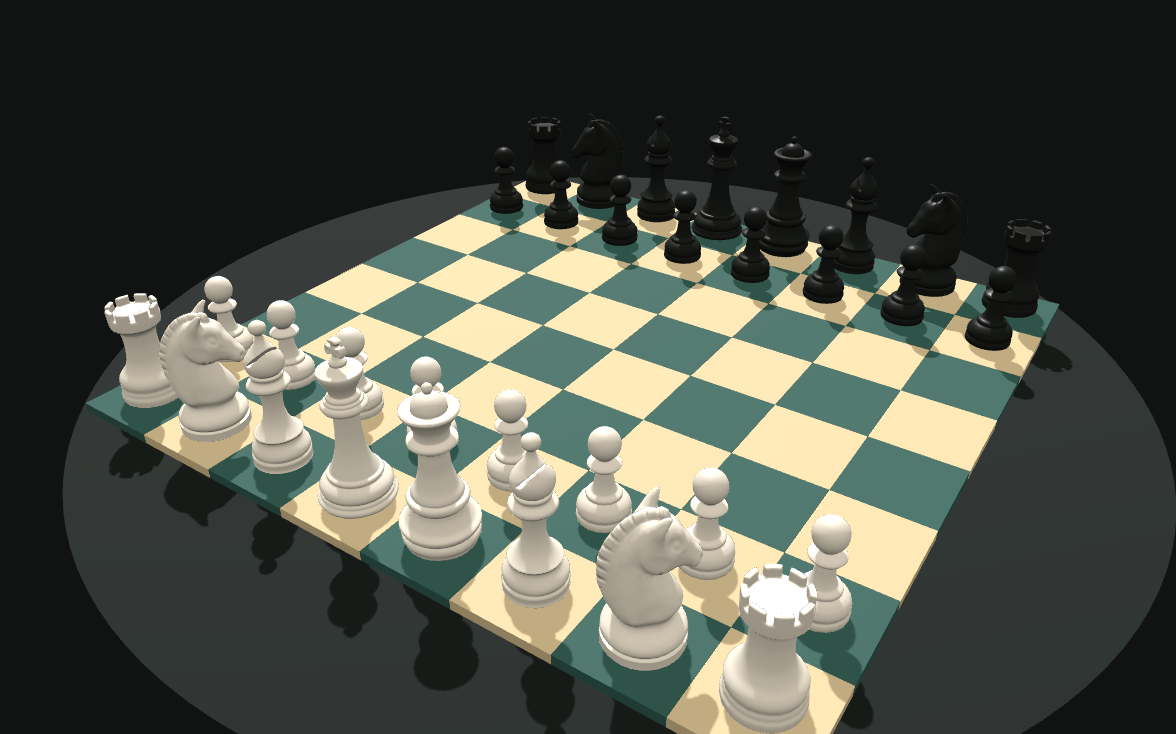
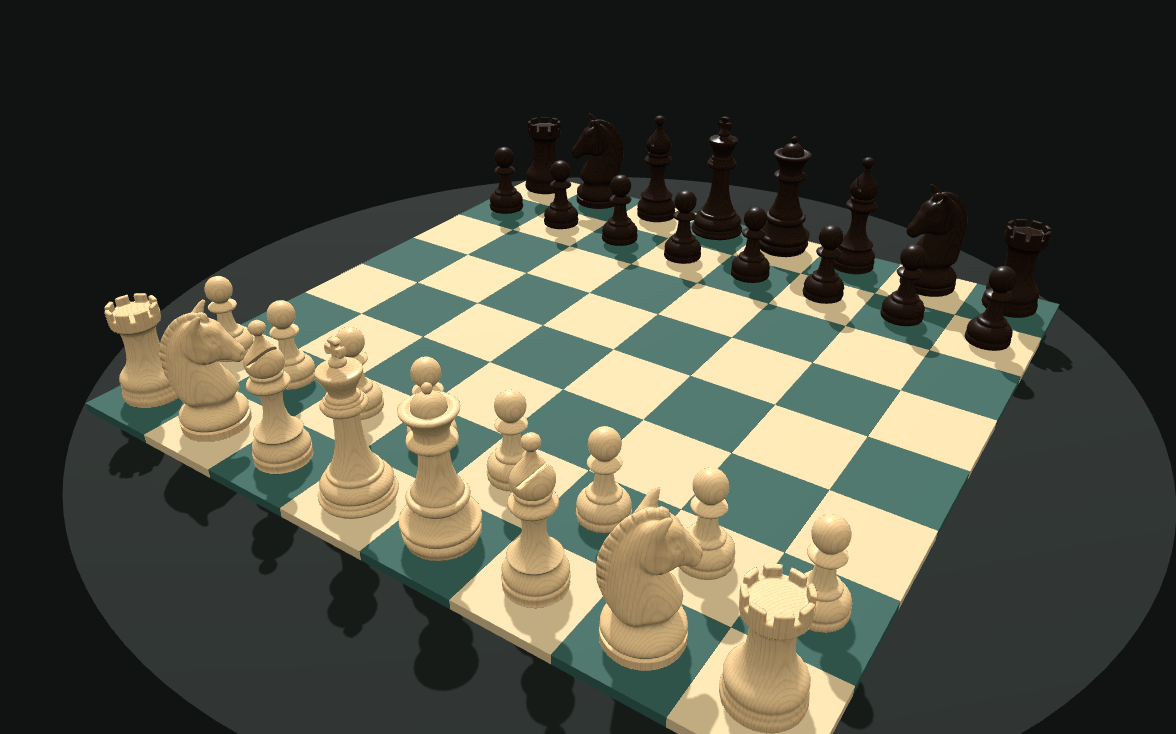
feat: add wood and marble finishes with a Pieces button
Pieces now default to polished boxwood and ebony, drawn with a
procedural wood-grain shader so it adds no download. A new Pieces button
cycles Wood, Marble (the Poly Haven set's own textures, loaded only when
picked) and Classic white/black, and remembers the choice. The README,
landing page and screenshot describe the new finishes.

Claude-Session: https://claude.ai/code/session_01TKUzipu4j6rHe4oEdDVDEF

Changed region(s): [[0.0918, 0.3597, 0.7347, 1.0]]

diff --git a/web/src/main.js b/web/src/main.js
@@ -15,6 +15,7 @@ const resetBtn = document.querySelector('#reset-btn');
 const undoBtn = document.querySelector('#undo-btn');
 const cameraBtn = document.querySelector('#camera-btn');
 const soundBtn = document.querySelector('#sound-btn');
+const piecesBtn = document.querySelector('#pieces-btn');
 const modeBtn = document.querySelector('#mode-btn');
 const zoomInBtn = document.querySelector('#zoom-in-btn');
 const zoomOutBtn = document.querySelector('#zoom-out-btn');
@@ -31,9 +32,13 @@ const ENGINE_START_DELAY = 160;
 const COMPUTER_ANIMATION_MS = 620;
 const STOCKFISH_WORKER_URL = './stockfish/stockfish-18-lite-single.js';
 const ZOOM_STORAGE_KEY = 'quantum-chess-zoom-distance';
+const PIECE_STYLE_STORAGE_KEY = 'quantum-chess-piece-style';
 // Sculpted Staunton set: "Chess Set" by Riley Queen, Poly Haven (CC0).
 const PIECE_MODEL_URL = './models/staunton-pieces.glb';
 const PIECE_MODEL_SQUARE_SIZE = 0.0578881;
+const PIECE_TEXTURE_DIR = './models/marble/';
+const PIECE_STYLES = ['wood', 'marble', 'classic'];
+const PIECE_STYLE_LABELS = { wood: 'Wood', marble: 'Marble', classic: 'Classic' };
 const PIECE_VALUES = {
   p: 100,
   n: 320,
@@ -115,18 +120,21 @@ const tileMaterialCheckmate = new THREE.MeshStandardMaterial({
   emissive: 0x7a060b,
   roughness: 0.45,
 });
-const whitePieceMaterial = new THREE.MeshStandardMaterial({
-  color: 0xf6eee0,
-  metalness: 0.08,
-  roughness: 0.42,
-  side: THREE.DoubleSide,
-});
-const blackPieceMaterial = new THREE.MeshStandardMaterial({
-  color: 0x202321,
-  metalness: 0.16,
-  roughness: 0.35,
-  side: THREE.DoubleSide,
-});
+const pieceMaterials = {
+  // Polished boxwood for White and ebony for Black, like a turned tournament set.
+  wood: {
+    w: createWoodMaterial({ light: 0xefd2a0, dark: 0xd2a56b, roughness: 0.36 }),
+    b: createWoodMaterial({ light: 0x2c1d15, dark: 0x0f0906, roughness: 0.28 }),
+  },
+  classic: {
+    w: new THREE.MeshStandardMaterial({ color: 0xf6eee0, metalness: 0.08, roughness: 0.42, side: THREE.DoubleSide }),
+    b: new THREE.MeshStandardMaterial({ color: 0x202321, metalness: 0.16, roughness: 0.35, side: THREE.DoubleSide }),
+  },
+  // The model's own marble-like finish; its textures load the first time this style is picked.
+  marble: null,
+};
+let pieceDetailMaterial = null;
+let pieceStyle = loadPieceStyle();
 const markerMaterial = new THREE.MeshBasicMaterial({
   color: 0xe8bf67,
   transparent: true,
@@ -202,6 +210,12 @@ soundBtn.addEventListener('click', () => {
   }
 });
 
+piecesBtn.addEventListener('click', () => {
+  const next = PIECE_STYLES[(PIECE_STYLES.indexOf(pieceStyle) + 1) % PIECE_STYLES.length];
+  setPieceStyle(next);
+});
+piecesBtn.textContent = `Pieces: ${PIECE_STYLE_LABELS[pieceStyle]}`;
+
 window.addEventListener('resize', resize);
 window.addEventListener('pointerdown', unlockAudio, { once: true });
 window.addEventListener('keydown', unlockAudio, { once: true });
@@ -271,6 +285,116 @@ function syncPieces() {
   }
 }
 
+function getPieceMaterials() {
+  if (pieceStyle === 'marble' && !pieceMaterials.marble) {
+    pieceMaterials.marble = {
+      w: createModelTextureMaterial('white', pieceDetailMaterial),
+      b: createModelTextureMaterial('black'),
+    };
+  }
+  return pieceMaterials[pieceStyle];
+}
+
+function createModelTextureMaterial(color, sharedNormals = null) {
+  const loader = new THREE.TextureLoader();
+  const load = (name, srgb) => {
+    const texture = loader.load(`${PIECE_TEXTURE_DIR}${color}_${name}.jpg`);
+    // glTF UVs expect textures that are not flipped vertically.
+    texture.flipY = false;
+    if (srgb) texture.colorSpace = THREE.SRGBColorSpace;
+    return texture;
+  };
+  const material = new THREE.MeshStandardMaterial({
+    map: load('diff', true),
+    roughnessMap: load('arm', false),
+    roughness: 1,
+    metalness: 0,
+    side: THREE.DoubleSide,
+  });
+  if (color === 'black') {
+    material.normalMap = load('nor_gl', false);
+  } else if (sharedNormals) {
+    // White's normal map is the one packed into the piece model.
+    material.normalMap = sharedNormals.normalMap;
+    material.normalScale.copy(sharedNormals.normalScale);
+  }
+  return material;
+}
+
+function setPieceStyle(style) {
+  pieceStyle = style;
+  piecesBtn.textContent = `Pieces: ${PIECE_STYLE_LABELS[style]}`;
+  try {
+    localStorage.setItem(PIECE_STYLE_STORAGE_KEY, style);
+  } catch {
+    // Storage can be unavailable (private mode); the choice then lasts for this visit.
+  }
+  syncPieces();
+}
+
+function loadPieceStyle() {
+  try {
+    const stored = localStorage.getItem(PIECE_STYLE_STORAGE_KEY);
+    if (PIECE_STYLES.includes(stored)) return stored;
+  } catch {
+    // Fall back to the default style.
+  }
+  return 'wood';
+}
+
+// Procedural wood: growth rings around a vertical log axis set beside the piece,
+// so the grain runs up the piece the way it does on a turned wooden set.
+function createWoodMaterial({ light, dark, roughness }) {
+  const material = new THREE.MeshStandardMaterial({
+    roughness,
+    metalness: 0,
+    side: THREE.DoubleSide,
+  });
+  const woodLight = new THREE.Color(light);
+  const woodDark = new THREE.Color(dark);
+  material.onBeforeCompile = (shader) => {
+    shader.uniforms.woodLight = { value: woodLight };
+    shader.uniforms.woodDark = { value: woodDark };
+    shader.vertexShader = shader.vertexShader
+      .replace('#include <common>', '#include <common>\nvarying vec3 vWoodPos;')
+      .replace(
+        '#include <begin_vertex>',
+        '#include <begin_vertex>\nvWoodPos = (modelMatrix * vec4(position, 1.0)).xyz - modelMatrix[3].xyz;',
+      );
+    shader.fragmentShader = shader.fragmentShader
+      .replace('#include <common>', `#include <common>
+varying vec3 vWoodPos;
+uniform vec3 woodLight;
+uniform vec3 woodDark;
+float woodHash(vec3 p) {
+  p = fract(p * 0.3183099 + 0.1);
+  p *= 17.0;
+  return fract(p.x * p.y * p.z * (p.x + p.y + p.z));
+}
+float woodNoise(vec3 x) {
+  vec3 i = floor(x);
+  vec3 f = fract(x);
+  f = f * f * (3.0 - 2.0 * f);
+  return mix(
+    mix(mix(woodHash(i), woodHash(i + vec3(1.0, 0.0, 0.0)), f.x),
+        mix(woodHash(i + vec3(0.0, 1.0, 0.0)), woodHash(i + vec3(1.0, 1.0, 0.0)), f.x), f.y),
+    mix(mix(woodHash(i + vec3(0.0, 0.0, 1.0)), woodHash(i + vec3(1.0, 0.0, 1.0)), f.x),
+        mix(woodHash(i + vec3(0.0, 1.0, 1.0)), woodHash(i + vec3(1.0, 1.0, 1.0)), f.x), f.y),
+    f.z);
+}
+vec3 woodColor(vec3 p) {
+  float warp = woodNoise(p * vec3(2.6, 0.5, 2.6));
+  float rings = length(p.xz + vec2(1.9, 1.1)) * 34.0 + warp * 3.0;
+  float ring = pow(0.5 + 0.5 * sin(rings * 6.2831853), 6.0);
+  float fibre = woodNoise(p * vec3(110.0, 2.0, 110.0));
+  float tone = woodNoise(p * 2.4);
+  return mix(woodLight, woodDark, clamp(ring * 0.32 + fibre * 0.28 + tone * 0.3, 0.0, 1.0));
+}`)
+      .replace('#include <color_fragment>', '#include <color_fragment>\ndiffuseColor.rgb *= woodColor(vWoodPos);');
+  };
+  return material;
+}
+
 function loadPieceModels() {
   new GLTFLoader()
     .loadAsync(PIECE_MODEL_URL)
@@ -284,7 +408,13 @@ function loadPieceModels() {
         pieceModels.set(node.name, node);
       }
       if (detailMaterial?.normalMap) {
-        for (const material of [whitePieceMaterial, blackPieceMaterial]) {
+        pieceDetailMaterial = detailMaterial;
+        const sharedNormalMaterials = [
+          ...Object.values(pieceMaterials.wood),
+          ...Object.values(pieceMaterials.classic),
+          ...(pieceMaterials.marble ? [pieceMaterials.marble.w] : []),
+        ];
+        for (const material of sharedNormalMaterials) {
           material.normalMap = detailMaterial.normalMap;
           material.normalScale.copy(detailMaterial.normalScale);
           material.needsUpdate = true;
@@ -300,9 +430,9 @@ function loadPieceModels() {
 }
 
 function createPiece(piece) {
-  const key = `${piece.color}${piece.type}`;
+  const key = `${pieceStyle}${piece.color}${piece.type}`;
   if (!pieceTemplates.has(key)) {
-    const material = piece.color === 'w' ? whitePieceMaterial : blackPieceMaterial;
+    const material = getPieceMaterials()[piece.color];
     const model = pieceModels.get(piece.type);
     let template;
     if (model) {

diff --git a/docs/index.html b/docs/index.html
@@ -94,7 +94,7 @@
         </div>
       </div>
       <figure class="shot">
-        <img src="./screen.png" width="1176" height="734" alt="Quantum Chess board with sculpted Staunton pieces in the starting position">
+        <img src="./screen.png" width="1176" height="734" alt="Quantum Chess board with wooden Staunton pieces in the starting position">
       </figure>
     </section>
 
@@ -115,7 +115,7 @@
         </article>
         <article class="card full">
           <h3>Sculpted Staunton Pieces</h3>
-          <p>The pieces are a professionally sculpted Staunton set, with a carved horse-head knight, a slit bishop mitre, a crenellated rook, and a cross-topped king. The set is <a href="https://polyhaven.com/a/chess_set">Chess Set</a> by Riley Queen on Poly Haven, released under CC0, shown in clean white and black.</p>
+          <p>The pieces are a professionally sculpted Staunton set, with a carved horse-head knight, a slit bishop mitre, a crenellated rook, and a cross-topped king. Use the Pieces button to switch between polished boxwood and ebony wood, the model's own marble finish, or classic white and black. The set is <a href="https://polyhaven.com/a/chess_set">Chess Set</a> by Riley Queen on Poly Haven, released under CC0.</p>
         </article>
       </div>
     </section>

diff --git a/web/index.html b/web/index.html
@@ -32,6 +32,7 @@
             <button id="mode-btn" type="button" aria-pressed="false">Play Two Players</button>
             <button id="camera-btn" type="button" aria-pressed="false">Flip View</button>
             <button id="sound-btn" type="button" aria-pressed="true">Sound On</button>
+            <button id="pieces-btn" type="button">Pieces: Wood</button>
           </div>
           <div class="move-log">
             <h2>Moves</h2>

diff --git a/README.md b/README.md
@@ -16,9 +16,15 @@ The project website is at [codejq.github.io/quantum-chess-game](https://codejq.g
 
 ## Chess Pieces
 
-The board uses a professionally sculpted Staunton set: a carved horse-head knight with mane and eyes, a slit bishop mitre, a crenellated rook, a pearl-crowned queen, and a cross-topped king. The pieces keep the game's clean white and black finish, with a normal map for the carved detail. Knights face the opponent, turned slightly so their profile shows from the table view.
+The board uses a professionally sculpted Staunton set: a carved horse-head knight with mane and eyes, a slit bishop mitre, a crenellated rook, a pearl-crowned queen, and a cross-topped king. Knights face the opponent, turned slightly so their profile shows from the table view.
 
-The model loads from `web/public/models/staunton-pieces.glb` (about 0.9 MB) and ships with every build, so the game stays fully offline. If the model cannot load, the game falls back to built-in Staunton-style pieces drawn in code.
+The **Pieces** button in the controls panel switches between three finishes, and the game remembers your choice:
+
+- **Wood** (default): polished boxwood for White and ebony for Black. The grain is drawn by a shader, so it adds no download.
+- **Marble**: the 3D model's own textures, a veined white and dark stone finish. These textures (about 3 MB) load only when you pick this look.
+- **Classic**: plain white and black.
+
+The model loads from `web/public/models/staunton-pieces.glb` (about 0.9 MB), and the Marble textures from `web/public/models/marble/`. Both ship with every build, so the game stays fully offline. If the model cannot load, the game falls back to built-in Staunton-style pieces drawn in code.
 
 ## Development
 
@@ -40,7 +46,7 @@ npm run tauri:build
 
 Quantum Chess Game is credited to [Quantum Billing LLC](https://qb-solutions.us/).
 
-The 3D chess pieces are from [Chess Set](https://polyhaven.com/a/chess_set) by Riley Queen on Poly Haven, released under CC0. `web/public/models/staunton-pieces.glb` keeps only one mesh per piece type and the normal map.
+The 3D chess pieces are from [Chess Set](https://polyhaven.com/a/chess_set) by Riley Queen on Poly Haven, released under CC0. `web/public/models/staunton-pieces.glb` keeps only one mesh per piece type and the normal map; `web/public/models/marble/` holds the set's piece textures.
 
 ## LLM Play
 
